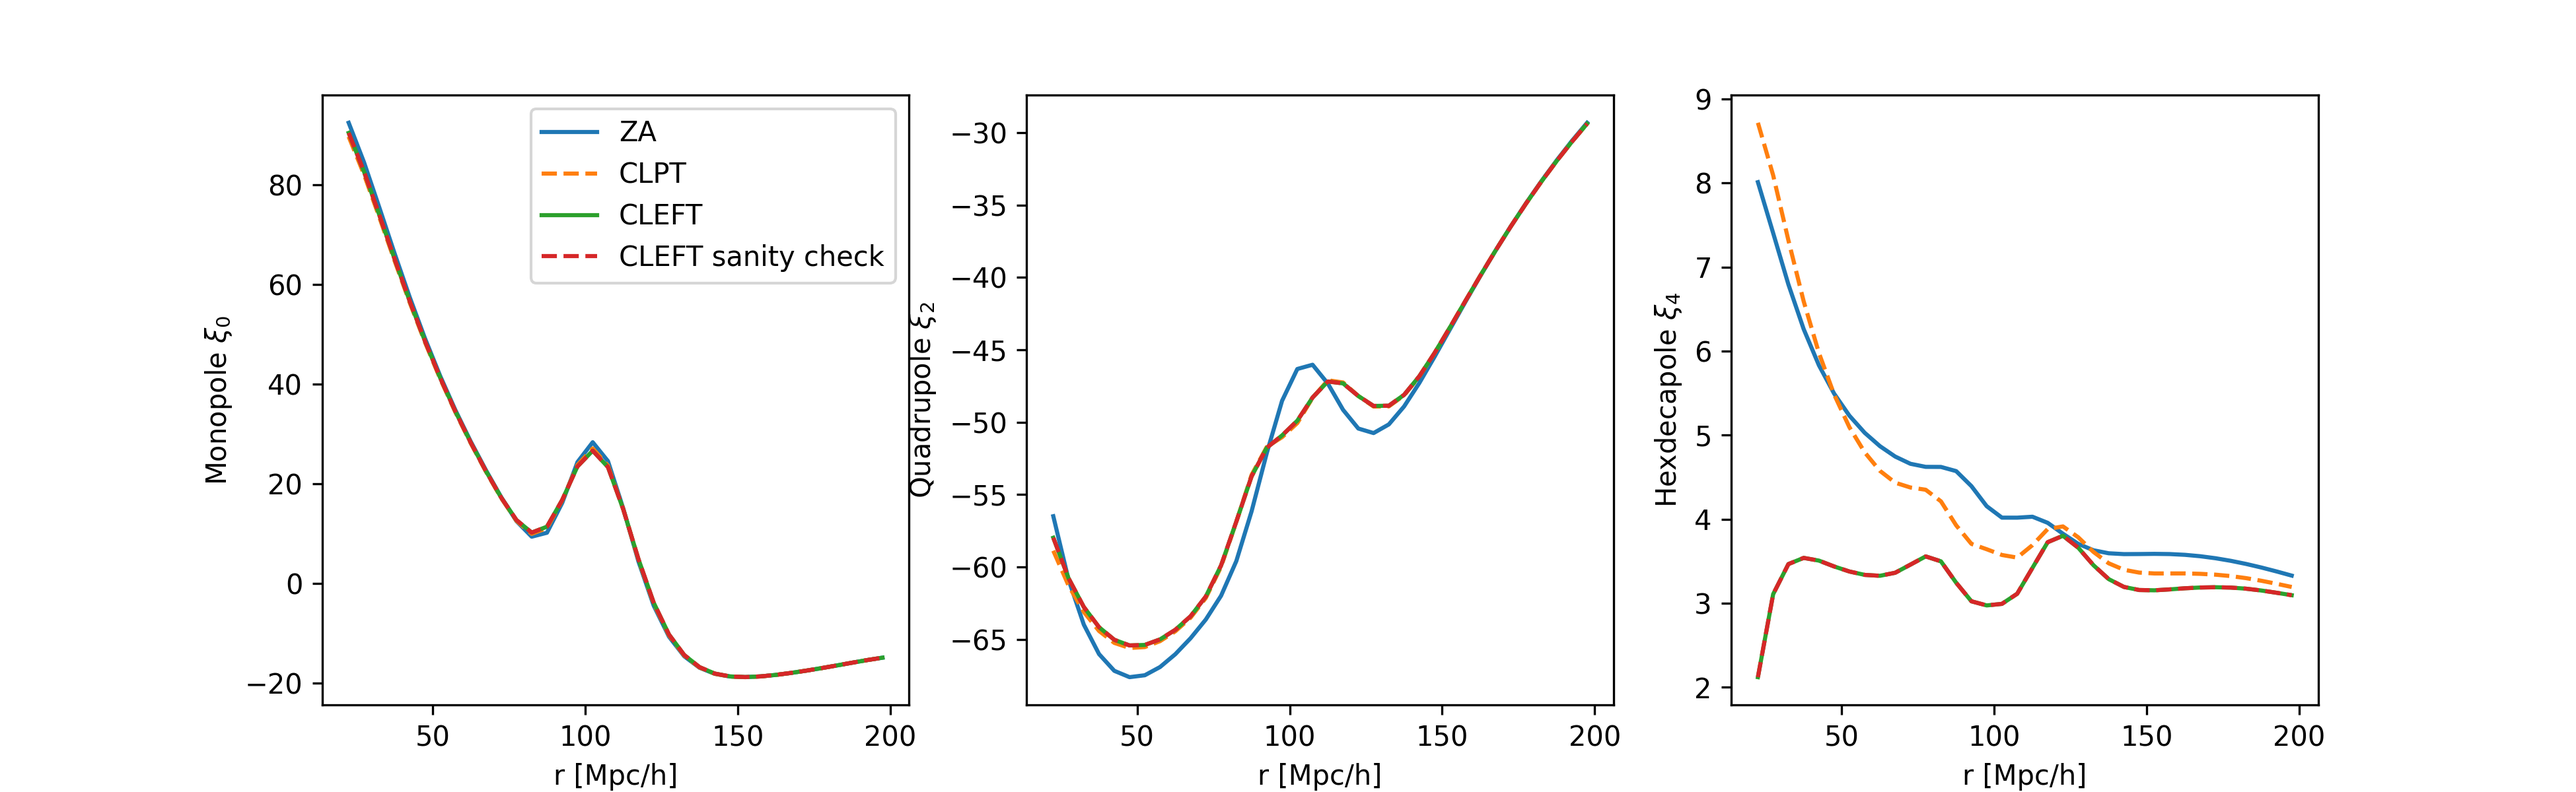
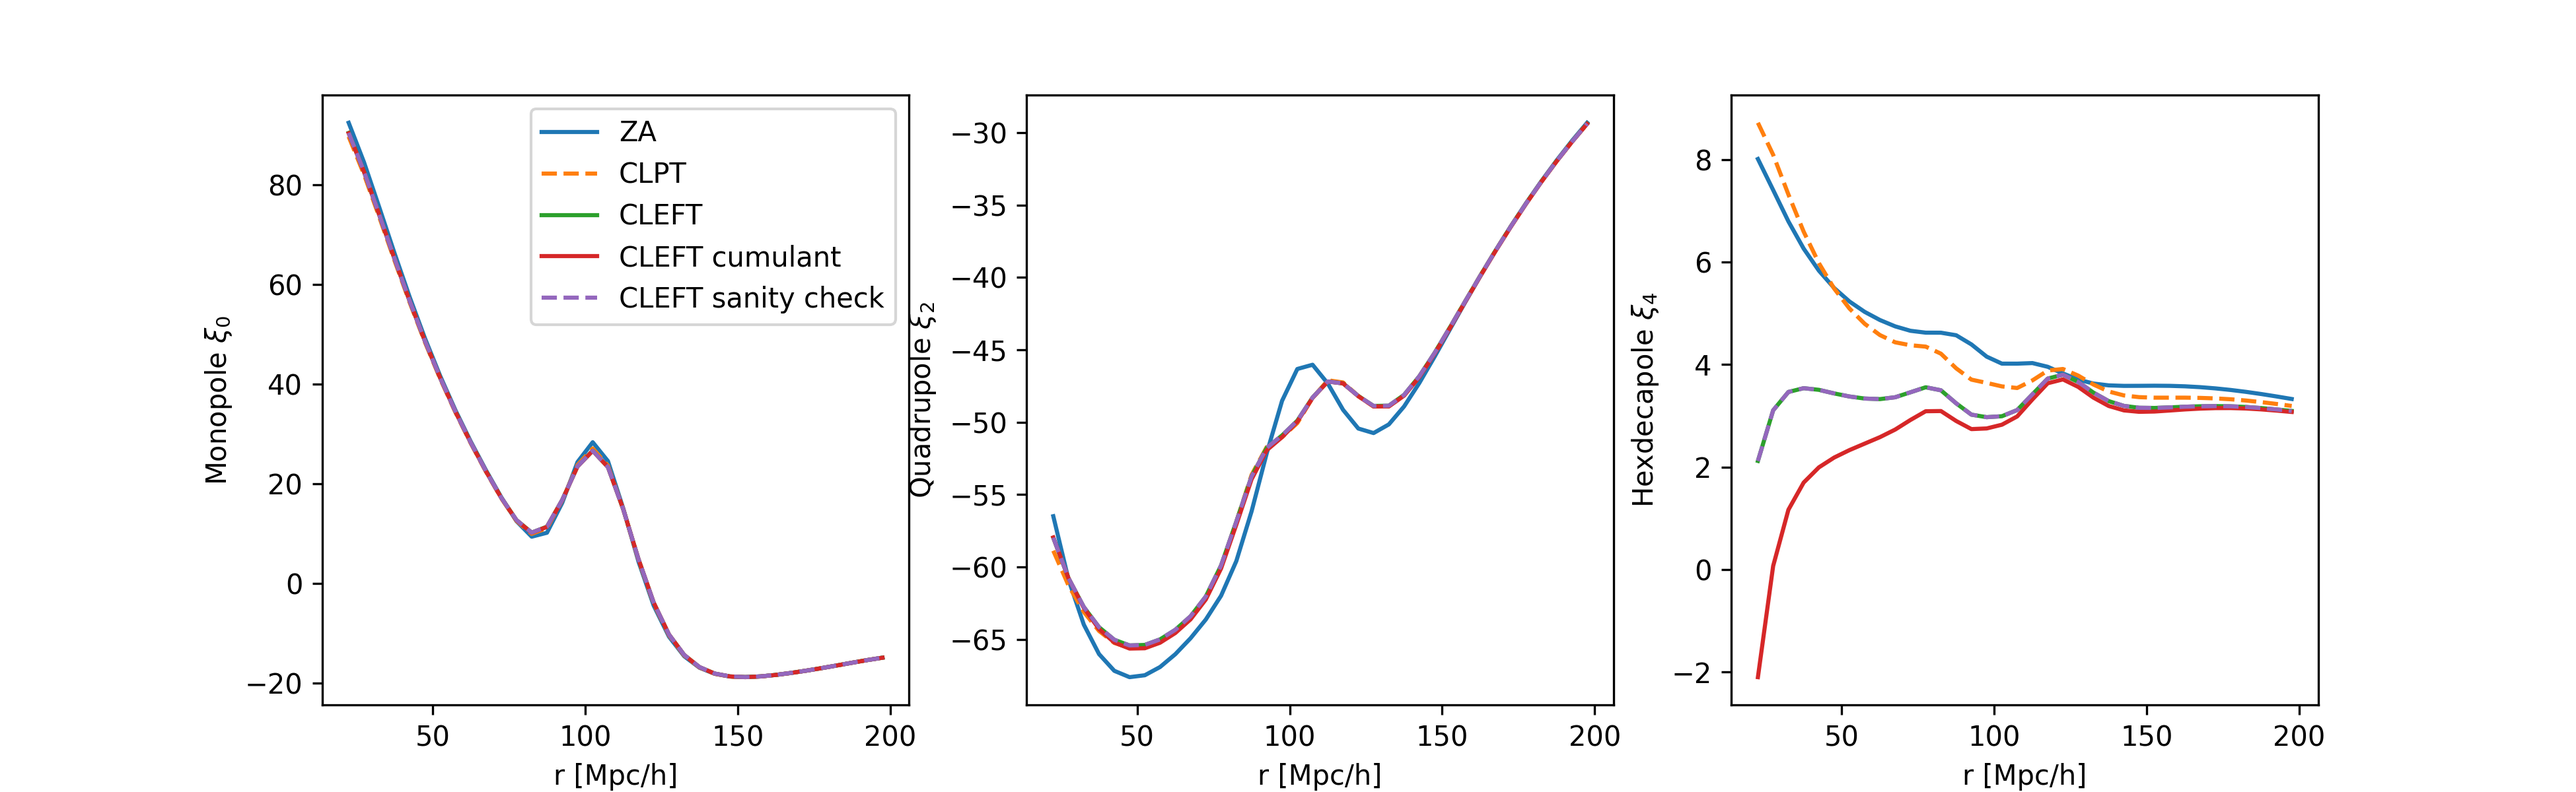
Add preliminary cumulant version for CLEFT.

diff --git a/GaussianStreaming.c b/GaussianStreaming.c
@@ -186,6 +186,21 @@ double Sigma12(double xi, double mu, double r) {
     return (mu * mu * spar + (1. - mu * mu) * sper) / (1.0 + xi);
 }
 
+double Sigma12_cumulant(double xi, double mu, double r) {
+    double spar, sper, vpar;
+
+    if (r < rmin)
+        r = rmin;
+    if (r > rmax)
+        r = rmax;
+
+    vpar = mu * V12(r); // Projecting the pairwise velocity (connecting the pair of galaxies) on the LOS
+    spar = gsl_spline_eval(spline[2], r, acc[2]) - vpar * vpar; //Here the cumulant is createt
+    sper = gsl_spline_eval(spline[3], r, acc[3]);
+
+    return (mu * mu * spar + (1. - mu * mu) * sper) / (1.0 + xi);
+}
+
 void interpSigma12(double *p) {
     // spar_1, spar_b1, spar_b2, spar_b1^2, spar_bs, spar_A, spar_B, s_1, s_b1, s_b2, s_b1^2, s_bs, s_A, s_B
     double spa[nrs], spe[nrs];
@@ -249,6 +264,51 @@ double Xis_cquad(double sperp, double spara, double p[]) {
     return result - 1.;
 }
 
+// Using the cumulant version for sigma
+double fXis_cquad_cumulant(double y, void * p) {
+
+    struct my_f_params_small *params = (struct my_f_params_small*)p;
+
+    const double rperp = (params->b);
+    const double fg = (params->c);
+    const double sigv = (params->d);
+
+
+    const double r = sqrt(rperp * rperp + y * y);
+    const double xi_r = Xi(r);
+    const double mu_r = y / r;
+    const double var = fg * fg * Sigma12_cumulant(xi_r, mu_r, r) + sigv;
+    if (var <= 0)
+        return 0;
+    const double spara = (params->a);
+    const double v = fg * V12(r) / (1. + xi_r);
+    const double x = spara - y;
+    const double mean = mu_r * v;
+    return (1. + xi_r) * gauss(x, mean, var);
+}
+
+// Using the cumulant version for sigma
+double Xis_cquad_cumulant(double sperp, double spara, double p[]) {
+    double result;
+    double error;
+
+    gsl_function F;
+    struct my_f_params_small params = {spara, sperp, p[0], p[1]};
+
+    F.function = &fXis_cquad_cumulant;
+
+    F.params = &params;
+
+    gsl_integration_cquad_workspace *w = gsl_integration_cquad_workspace_alloc(200);
+
+    gsl_integration_cquad(&F, spara - y_spanning, spara + y_spanning, 0, 1e-6, w, &result, &error, NULL);
+
+    gsl_integration_cquad_workspace_free(w);
+
+
+    return result - 1.;
+}
+
 double fXis(double y, double p[]) {
     const double rperp = p[1];
     const double fg = p[2];
@@ -267,6 +327,7 @@ double fXis(double y, double p[]) {
     return (1. + xi_r) * gauss(x, mean, var);
 }
 
+
 double Xis(double sperp, double spara, double p[]) {
     double params[4];
 
@@ -279,6 +340,39 @@ double Xis(double sperp, double spara, double p[]) {
 
     return result - 1.;
 }
+
+// Using the cumulant version for the Gaussian streaming
+double fXis_cumulant(double y, double p[]) {
+    const double rperp = p[1];
+    const double fg = p[2];
+    const double sigv = p[3];
+
+    const double r = sqrt(rperp * rperp + y * y);
+    const double xi_r = Xi(r);
+    const double mu_r = y / r;
+    const double var = fg * fg * Sigma12_cumulant(xi_r, mu_r, r) + sigv;
+    if (var <= 0)
+        return 0;
+    const double spara = p[0];
+    const double v = fg * V12(r) / (1. + xi_r);
+    const double x = spara - y;
+    const double mean = mu_r * v;
+    return (1. + xi_r) * gauss(x, mean, var);
+}
+
+double Xis_cumulant(double sperp, double spara, double p[]) {
+    double params[4];
+
+    params[0] = spara;
+    params[1] = sperp;
+    params[2] = p[0];
+    params[3] = p[1];
+
+    const double result = Gauss_Legendre_Integration2_100pts(spara - y_spanning, spara + y_spanning, &fXis_cumulant, params);
+
+    return result - 1.;
+}
+
 
 
 /****************\\Legendre Multipole with CLPT prediction\\*********************************************************************************************************/
@@ -330,6 +424,30 @@ void multipole(double s, double p[], double result[]) {
     Gauss_Legendre_Integration2_100pts_array(0, 1, &fmultipole, par, result, 3);
 }
 
+// Same as above but using cumulant version for sigma 
+void fmultipole_cumulant(double mu, double p[], double result[]) {
+    const double s = p[0];
+    const double apar = p[3];
+    const double aper = p[4];
+    const double spara = apar * s * mu;
+    const double rperp = aper * s * sqrt(1. - mu * mu);
+    double par[2];
+    par[0] = p[1];
+    par[1] = p[2];
+    const double xi_s = Xis_cumulant(rperp, spara, par);
+
+    result[0] = xi_s * gsl_sf_legendre_Pl(0, mu);
+    result[1] = xi_s * gsl_sf_legendre_Pl(2, mu);
+    result[2] = xi_s * gsl_sf_legendre_Pl(4, mu);
+}
+
+void multipole_cumulant(double s, double p[], double result[]) {
+    double par[5] = {s, p[0], p[5], p[6], p[7]};
+    Gauss_Legendre_Integration2_100pts_array(0, 1, &fmultipole_cumulant, par, result, 3);
+}
+
+
+
 // Multipole integration with GL but Gaussian streaming is computed via cquad
 // All multipoles in GL but with cquad in streaming
 void fmultipole_cquad(double mu, double p[], double result[]) {
@@ -352,6 +470,30 @@ void multipole_cquad(double s, double p[], double result[]) {
     double par[5] = {s, p[0], p[5], p[6], p[7]};
     Gauss_Legendre_Integration2_100pts_array(0, 1, &fmultipole_cquad, par, result, 3);
 }
+
+// Same as above but using the cumulant version for sigma
+void fmultipole_cquad_cumulant(double mu, double p[], double result[]) {
+    const double s = p[0];
+    const double apar = p[3];
+    const double aper = p[4];
+    const double spara = apar * s * mu;
+    const double rperp = aper * s * sqrt(1. - mu * mu);
+    double par[2];
+    par[0] = p[1];
+    par[1] = p[2];
+    const double xi_s = Xis_cquad_cumulant(rperp, spara, par);
+
+    result[0] = xi_s * gsl_sf_legendre_Pl(0, mu);
+    result[1] = xi_s * gsl_sf_legendre_Pl(2, mu);
+    result[2] = xi_s * gsl_sf_legendre_Pl(4, mu);
+}
+
+void multipole_cquad_cumulant(double s, double p[], double result[]) {
+    double par[5] = {s, p[0], p[5], p[6], p[7]};
+    Gauss_Legendre_Integration2_100pts_array(0, 1, &fmultipole_cquad_cumulant, par, result, 3);
+}
+
+
 
 // Hybrid method GL for monopole and quadrupole but cquad for hexadecapole
 // Gaussian streaming is cquad for all three multipoles 
@@ -390,6 +532,40 @@ double fhexadecapole_cquad(double mu, void * p) {
     return xi_s*gsl_sf_legendre_Pl(4,mu);
 }
 
+// Same as above but using the cumulant version for sigma
+void fmultipole_cquad_first_two_cumulant(double mu, double p[], double result[]) {
+    const double s = p[0];
+    const double apar = p[3];
+    const double aper = p[4];
+    const double spara = apar * s * mu;
+    const double rperp = aper * s * sqrt(1. - mu * mu);
+    double par[2];
+    par[0] = p[1];
+    par[1] = p[2];
+    const double xi_s = Xis_cquad_cumulant(rperp, spara, par);
+
+    result[0] = xi_s * gsl_sf_legendre_Pl(0, mu);
+    result[1] = xi_s * gsl_sf_legendre_Pl(2, mu);
+}
+
+double fhexadecapole_cquad_cumulant(double mu, void * p) {
+    struct my_f_params * params = (struct my_f_params *)p;
+    double par[2];
+    
+    double s = (params->a);
+    par[0] = (params->b);
+    par[1] = (params->c);
+    double aper = (params->d);
+    double apar = (params->e);
+
+    double spara = apar*s*mu;
+    double rperp = aper*s*sqrt(1.-mu*mu);
+    double xi_s = Xis_cquad_cumulant(rperp, spara, par);
+
+    return xi_s*gsl_sf_legendre_Pl(4,mu);
+}
+
+
 // compute multipoles with GL for monopole and quadrupole but cquad for hexadecapole
 // Use cquad for streaming thoughout
 void multipole_only_hexa_cquad(double s, double p[], double result[]) {
@@ -411,6 +587,36 @@ void multipole_only_hexa_cquad(double s, double p[], double result[]) {
     struct my_f_params params = {par[0], par[1], par[2], par[3], par[4]};
 
     F_hexa.function = &fhexadecapole_cquad;
+
+    F_hexa.params = &params;
+
+    gsl_integration_cquad_workspace *hexadecap = gsl_integration_cquad_workspace_alloc(200);
+
+    gsl_integration_cquad(&F_hexa, 0, 1, 0, 1e-6, hexadecap, &result[2], &error_hexa, NULL);
+
+    gsl_integration_cquad_workspace_free(hexadecap);
+}
+
+// Same as above but using the cumulant version for sigma
+void multipole_only_hexa_cquad_cumulant(double s, double p[], double result[]) {
+    double par[5];
+
+    par[0] = s;
+    par[1] = p[0];
+    par[2] = p[5];
+    par[3] = p[6];
+    par[4] = p[7];
+
+    double error_hexa;
+
+    // Do monopole and quadrupole with GL (but cquad in streaming)
+    Gauss_Legendre_Integration2_100pts_array(0, 1, &fmultipole_cquad_first_two_cumulant, par, result, 2);
+
+    // Do hexadecapole with cquad in multipole and streaming
+    gsl_function F_hexa;
+    struct my_f_params params = {par[0], par[1], par[2], par[3], par[4]};
+
+    F_hexa.function = &fhexadecapole_cquad_cumulant;
 
     F_hexa.params = &params;
 
@@ -891,6 +1097,56 @@ void get_prediction_CLEFT(double *s_array, int nbins, double out[],
 
     free_CLEFT();
 }
+
+// The same CLEFT as above but using the cumulant for sigma
+void get_prediction_CLEFT_cumulant(double *s_array, int nbins, double out[],
+                          double in_f, double in_b1, double in_b2, double in_bs, double in_ax, double in_av, double in_as, double in_alpha_par, double in_alpha_per) {
+    double par[13], out_tmp[3];
+
+    par[0] = in_f;
+    par[1] = in_b1;
+    par[2] = in_b2;
+    par[3] = in_bs;
+    par[4] = 0;
+    par[5] = 0;
+    par[6] = in_alpha_par;
+    par[7] = in_alpha_per;
+    par[8] = in_ax;
+    par[9] = in_av;
+    par[10] = 0;
+    par[11] = in_as;
+    par[12] = 0;
+
+    // clock_t begin = clock();
+
+    interpXi(par);
+    interpV12(par);
+    interpSigma12(par);
+
+    for (unsigned int i = 0; i < nbins; i++) {
+        if (s_array[i] < 25){ // If below 25Mpc/h then use cquad for the hexadecapole but GL for the monopole/quadrupole and cquad for the streaming throughout
+            multipole_only_hexa_cquad_cumulant(s_array[i], par, out_tmp);
+        }
+        else if (s_array[i] >= 25 && s_array[i] < 50){ // If in this range use GL for all multipoles but cquad for the streaming
+            multipole_cquad_cumulant(s_array[i], par, out_tmp);
+        }
+        else{ // Use GL for streaming and multipoles
+            multipole_cumulant(s_array[i], par, out_tmp);
+        }
+        out[i] = out_tmp[0];
+        out[nbins + i] = 5 * out_tmp[1];
+        out[2 * nbins + i] = 9 * out_tmp[2];
+    }
+
+    for (unsigned int i = 0; i < 4; i++) {
+        gsl_spline_free(spline[i]);
+        gsl_interp_accel_free(acc[i]);
+    }
+
+    free_CLEFT();
+}
+
+
 
 
 // A function to compute multipoles up to l=8, hence the output will contain l=0, l=2, l=4, l=6 and l=8

diff --git a/Wrap_CLEFT.py b/Wrap_CLEFT.py
@@ -27,6 +27,7 @@ model_CLPT_wrapped = CLEFT_library.get_prediction_CLPT
 model_CLPT_wrapped_templatefit = CLEFT_library.get_prediction_CLPT_tmp_fitting
 model_CLPT_wrapped_only_xi_realspace = CLEFT_library.get_prediction_CLPT_only_xi_realspace
 model_CLEFT_wrapped = CLEFT_library.get_prediction_CLEFT
+model_CLEFT_wrapped_cumulant = CLEFT_library.get_prediction_CLEFT_cumulant
 model_CLEFT_wrapped_templatefit = CLEFT_library.get_prediction_CLEFT_tmp_fitting
 model_CLEFT_wrapped_upto8 = CLEFT_library.get_prediction_CLEFT_upto8
 
@@ -123,6 +124,24 @@ model_CLEFT_wrapped.argtypes = (
     ctypes.c_double
 )
 
+# CLEFT cumulant version
+# Specify the return and argument data types
+model_CLEFT_wrapped_cumulant.restype = ctypes.c_void_p
+model_CLEFT_wrapped_cumulant.argtypes = (
+    ndpointer(ctypes.c_double, flags="C_CONTIGUOUS"),
+    ctypes.c_int,
+    ndpointer(ctypes.c_double, flags="C_CONTIGUOUS"),
+    ctypes.c_double,
+    ctypes.c_double,
+    ctypes.c_double,
+    ctypes.c_double,
+    ctypes.c_double,
+    ctypes.c_double,
+    ctypes.c_double,
+    ctypes.c_double,
+    ctypes.c_double
+)
+
 # CLEFT for template fitting
 # Specify the return and argument data types
 model_CLEFT_wrapped_templatefit.restype = ctypes.c_void_p
@@ -196,6 +215,17 @@ def model_CLEFT(ingredients, theta, s_array, ns):
     model_CLEFT_wrapped(s_array, ns, res, f, b1, b2, bs, ax, av, aas, alpha_par, alpha_per)
     return res
 
+# Wrapper for CLEFT using cumulant version for sigma
+# This is a new wrapper where we give directly a pointer to the numpy array of the ingredients
+# NOT YET TESTED, USE WITH CARE!
+def model_CLEFT_cumulant(ingredients, theta, s_array, ns):
+    load_CLEFT_wrapped(ingredients, len(ingredients[:, 0]))
+    f, b1, b2, bs, ax, av, aas, alpha_par, alpha_per = theta
+    res = np.zeros(3 * ns, dtype=np.double)
+    model_CLEFT_wrapped_cumulant(s_array, ns, res, f, b1, b2, bs, ax, av, aas, alpha_par, alpha_per)
+    return res
+
+
 
 # Wrapper for CLEFT/CLPT/ to be used for template fitting
 def load_templatefit(ingredients):
@@ -261,6 +291,7 @@ def main():
     result_ZA = model_ZA(test_ZA, theta_test_ZA, r_bins, ns)
     result_CLPT = model_CLPT(test_CLPT, theta_test_CLPT, r_bins, ns)
     result_CLEFT = model_CLEFT(test_CLEFT, theta_test_CLEFT, r_bins, ns)
+    result_CLEFT_cumulant = model_CLEFT_cumulant(test_CLEFT, theta_test_CLEFT, r_bins, ns)
 
     # Test the template fitting
     load_templatefit(test_ZA)
@@ -300,6 +331,9 @@ def main():
     ax[0].plot(r_bins, r_bins**2 * result_CLEFT[0:ns], label='CLEFT')
     ax[1].plot(r_bins, r_bins**2 * result_CLEFT[ns : 2 * ns])
     ax[2].plot(r_bins, r_bins**2 * result_CLEFT[2 * ns :])
+    ax[0].plot(r_bins, r_bins**2 * result_CLEFT_cumulant[0:ns], label='CLEFT cumulant')
+    ax[1].plot(r_bins, r_bins**2 * result_CLEFT_cumulant[ns : 2 * ns])
+    ax[2].plot(r_bins, r_bins**2 * result_CLEFT_cumulant[2 * ns :])
     ax[0].plot(r_bins, r_bins**2 * result_reference[0:ns], linestyle="--", label='CLEFT sanity check')
     ax[1].plot(r_bins, r_bins**2 * result_reference[ns : 2 * ns], linestyle="--")
     ax[2].plot(r_bins, r_bins**2 * result_reference[2 * ns :], linestyle="--")
@@ -307,6 +341,7 @@ def main():
     ax[0].set_ylabel(r'Monopole $\xi_0$')
     ax[1].set_ylabel(r'Quadrupole $\xi_2$')
     ax[2].set_ylabel(r'Hexdecapole $\xi_4$')
+
 
     for i in range(3):
         ax[i].set_xlabel('r [Mpc/h]')
